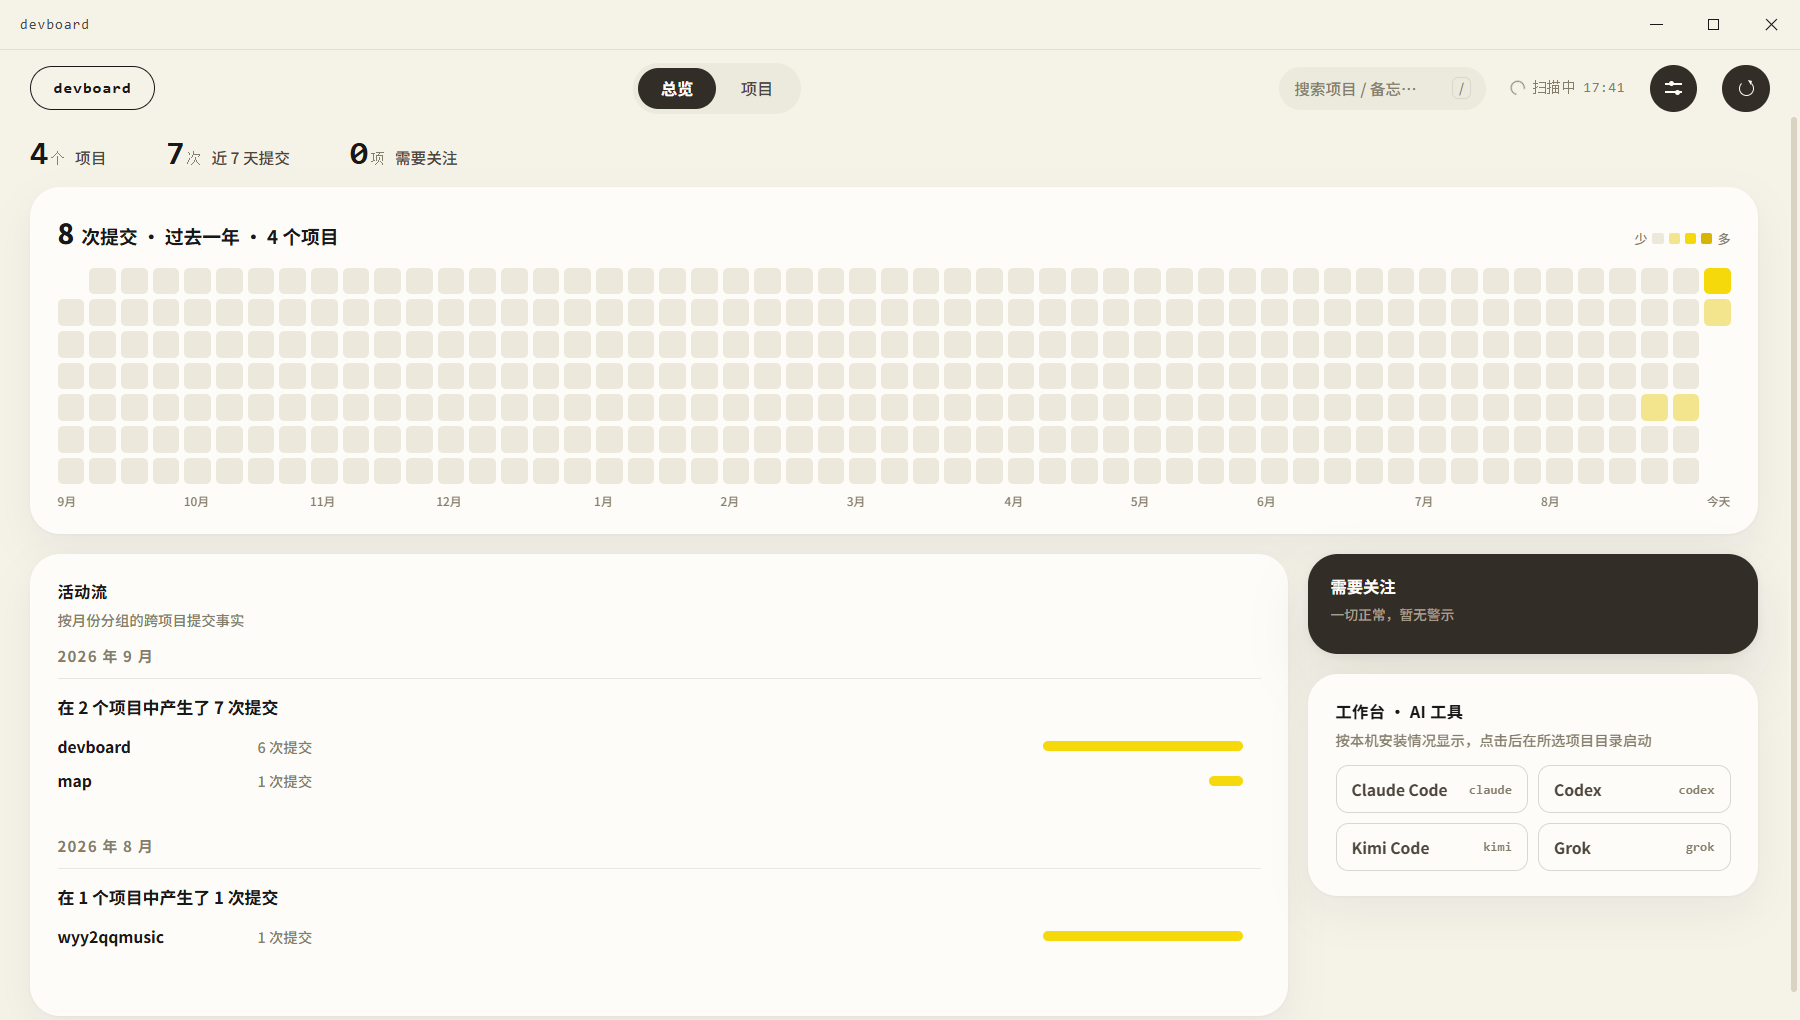
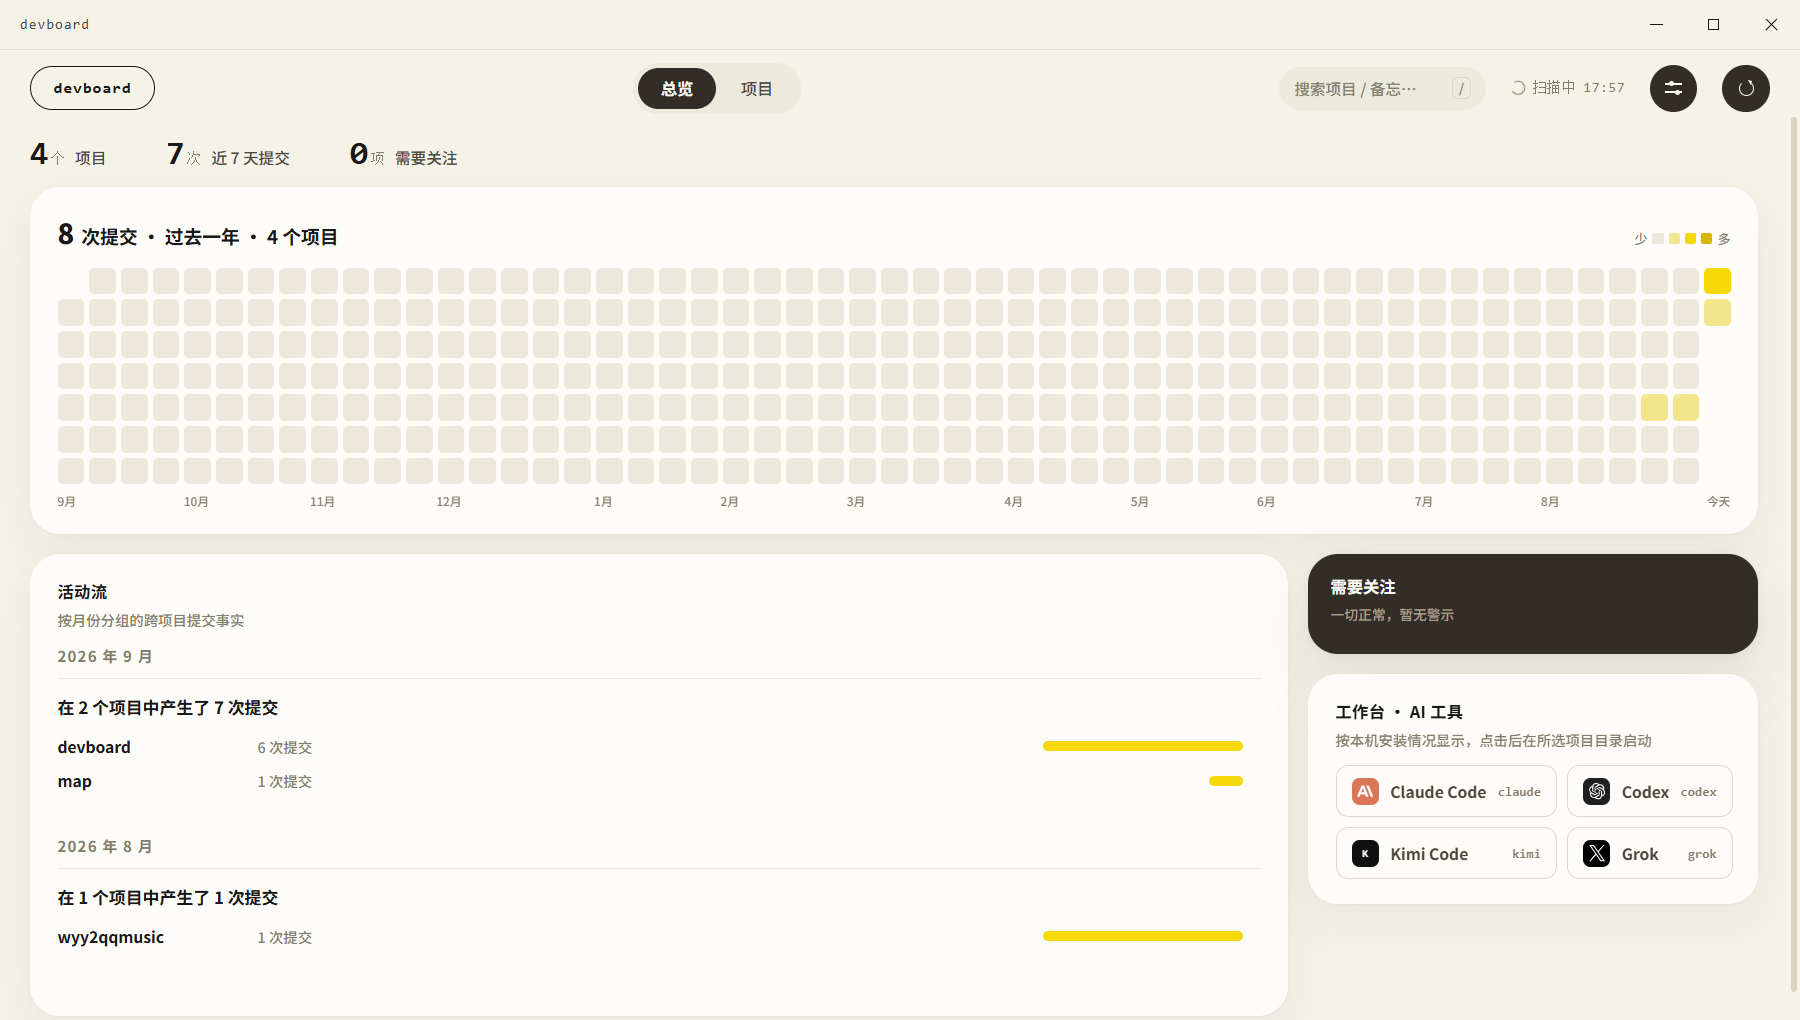
[feat] 热力图悬停气泡 + AI 工具品牌徽章 (#19 #21)
- #19 格子 title 改 data-tip + .heat-tip 深色气泡（--tile 底+下指三角，文案「M月D日 · N 次提交/无提交」，blank 格不触发，窗口缘钳制，scroll 隐藏），总览与详情面板共用
- #21 AI_TOOL_ICONS 注册表随 aitools:list 下发 {bg,svg}：Claude=anthropic 橙、Codex=openai 结形、Grok=X、Kimi=K 字标（simple-icons 未收录）；自定义工具可选图标，缺省终端标；22px 徽章工作台与详情面板共用渲染

Changed region(s): [[0.7467, 0.7598, 0.9644, 0.8814]]

diff --git a/src/renderer/app.js b/src/renderer/app.js
@@ -270,7 +270,8 @@
       var d = new Date(first + i * DAY_MS);
       var lvl = n === 0 ? 0 : n < 3 ? 1 : n < 7 ? 2 : 3;
       var cell = el('i', 'cell' + (lvl ? ' l' + lvl : ''));
-      cell.title = (d.getMonth() + 1) + '月' + d.getDate() + '日 · ' + (n ? n + ' 次提交' : '无提交');
+      // 悬停气泡（issue #19）：样式化深色气泡替代原生 title，空白占位格不写 tip
+      cell.dataset.tip = (d.getMonth() + 1) + '月' + d.getDate() + '日 · ' + (n ? n + ' 次提交' : '无提交');
       gridEl.appendChild(cell);
     });
     container.appendChild(gridEl);
@@ -418,6 +419,29 @@
     renderTools();
   }
 
+  /* ---------- 热力图悬停气泡（issue #19）：总览全局图与详情面板项目图共用 ---------- */
+  var heatTip = el('div', 'heat-tip');
+  document.body.appendChild(heatTip);
+  document.addEventListener('mouseover', function (e) {
+    var c = e.target && e.target.closest ? e.target.closest('.cell') : null;
+    if (!c || c.classList.contains('blank') || !c.dataset.tip || !c.closest('.gheat,.p-heat')) {
+      heatTip.style.opacity = 0;
+      return;
+    }
+    heatTip.textContent = c.dataset.tip;
+    heatTip.style.opacity = 1;
+    // 气泡 fixed 定位跟随格子；贴窗口左右缘时钳制内收（面板滚动经 scroll 捕获隐藏）
+    var r = c.getBoundingClientRect();
+    var cx = r.left + r.width / 2;
+    var half = heatTip.offsetWidth / 2 + 8;
+    if (cx + half > window.innerWidth) cx = window.innerWidth - half;
+    else if (cx < half) cx = half;
+    heatTip.style.left = cx + 'px';
+    heatTip.style.top = (r.top - 8) + 'px';
+  });
+  document.addEventListener('mouseleave', function () { heatTip.style.opacity = 0; }, true);
+  document.addEventListener('scroll', function () { heatTip.style.opacity = 0; }, true);
+
   /* ---------- 工作台 · AI 工具（issue #15） ---------- */
   function installedTools() {
     return (state.aiTools || []).filter(function (t) { return t.installed; });
@@ -435,10 +459,17 @@
     }).catch(function () { state.aiTools = []; });
   }
 
+  // 工具按钮：左侧 22px 品牌徽章 + 名称 + 命令（issue #21，工作台与详情面板共用）
   function toolButton(t, onPick) {
-    var b = el('button', 'tool-btn', t.label);
+    var b = el('button', 'tool-btn');
     b.type = 'button';
     b.title = '在终端启动 ' + t.cmd;
+    var logo = el('span', 'tool-logo');
+    var icon = t.logo || { bg: '#322e27', svg: '' };
+    logo.style.background = icon.bg;
+    logo.innerHTML = '<svg viewBox="0 0 24 24">' + icon.svg + '</svg>';
+    b.appendChild(logo);
+    b.appendChild(el('span', 'nm', t.label));
     b.appendChild(el('span', 'cmd', t.cmd));
     b.addEventListener('click', function (e) {
       e.stopPropagation();
@@ -1139,8 +1170,9 @@
     listEl.appendChild(row);
   }
 
-  // AI 工具自定义清单行（label + cmd，issue #15，存 config.aiTools）
-  function aiToolRow(label, cmd) {
+  // AI 工具自定义清单行（label + cmd + 图标选择，issue #15/#21，存 config.aiTools）
+  var AI_ICON_CHOICES = [['', '默认（终端）'], ['claude', 'Claude'], ['codex', 'Codex'], ['kimi', 'Kimi'], ['grok', 'Grok']];
+  function aiToolRow(label, cmd, logoKey) {
     var row = el('div', 'path-row');
     var l = el('input');
     l.type = 'text';
@@ -1152,11 +1184,19 @@
     c.value = cmd || '';
     c.placeholder = '命令（如 kimi）';
     c.spellcheck = false;
+    var sel = el('select');
+    AI_ICON_CHOICES.forEach(function (pair) {
+      var o = el('option', null, pair[1]);
+      o.value = pair[0];
+      sel.appendChild(o);
+    });
+    sel.value = logoKey || '';
     var del = el('button', 'del', '删除');
     del.type = 'button';
     del.addEventListener('click', function () { row.remove(); });
     row.appendChild(l);
     row.appendChild(c);
+    row.appendChild(sel);
     row.appendChild(del);
     aiToolsListEl.appendChild(row);
   }
@@ -1166,7 +1206,11 @@
     Array.prototype.forEach.call(aiToolsListEl.querySelectorAll('.path-row'), function (row) {
       var inputs = row.querySelectorAll('input');
       var cmd = inputs[1].value.trim();
-      if (cmd) out.push({ label: inputs[0].value.trim() || cmd, cmd: cmd });
+      if (!cmd) return;
+      var item = { label: inputs[0].value.trim() || cmd, cmd: cmd };
+      var logo = row.querySelector('select').value;
+      if (logo) item.logo = logo;
+      out.push(item);
     });
     return out;
   }
@@ -1273,7 +1317,7 @@
       extraList.innerHTML = '';
       (cfg.extraPaths || []).forEach(function (r) { pathRow(extraList, r); });
       aiToolsListEl.innerHTML = '';
-      (cfg.aiTools || []).forEach(function (t) { aiToolRow(t.label, t.cmd); });
+      (cfg.aiTools || []).forEach(function (t) { aiToolRow(t.label, t.cmd, t.logo); });
       document.getElementById('fBlacklist').value = (cfg.blacklist || []).join('\n');
       fToken.value = ''; // token 不下发；留空 = 不改动（issue #12）
       fUsername.value = cfg.githubUsername || '';

diff --git a/src/main/ipc.js b/src/main/ipc.js
@@ -77,6 +77,33 @@ function checkCommand(cmd) {
   });
 }
 
+// AI 工具品牌图标（issue #21）：内联单色 SVG 标识 + 品牌底色方块
+// 来源：claude=simple-icons anthropic / codex=simple-icons openai(v13，新版已下架) / grok=simple-icons x；
+// kimi 无官方条目（simple-icons 未收录 Moonshot），沿用 demos/demo-f-overview.html 的近似标（K 字）；
+// terminal 为自定义工具的通用兜底图标
+const AI_TOOL_ICONS = {
+  claude: {
+    bg: '#d97757',
+    svg: '<path d="M17.3041 3.541h-3.6718l6.696 16.918H24Zm-10.6082 0L0 20.459h3.7442l1.3693-3.5527h7.0052l1.3693 3.5528h3.7442L10.5363 3.5409Zm-.3712 10.2232 2.2914-5.9456 2.2914 5.9456Z" fill="#fff"/>',
+  },
+  codex: {
+    bg: '#202020',
+    svg: '<path d="M22.2819 9.8211a5.9847 5.9847 0 0 0-.5157-4.9108 6.0462 6.0462 0 0 0-6.5098-2.9A6.0651 6.0651 0 0 0 4.9807 4.1818a5.9847 5.9847 0 0 0-3.9977 2.9 6.0462 6.0462 0 0 0 .7427 7.0966 5.98 5.98 0 0 0 .511 4.9107 6.051 6.051 0 0 0 6.5146 2.9001A5.9847 5.9847 0 0 0 13.2599 24a6.0557 6.0557 0 0 0 5.7718-4.2058 5.9894 5.9894 0 0 0 3.9977-2.9001 6.0557 6.0557 0 0 0-.7475-7.0729zm-9.022 12.6081a4.4755 4.4755 0 0 1-2.8764-1.0408l.1419-.0804 4.7783-2.7582a.7948.7948 0 0 0 .3927-.6813v-6.7369l2.02 1.1686a.071.071 0 0 1 .038.052v5.5826a4.504 4.504 0 0 1-4.4945 4.4944zm-9.6607-4.1254a4.4708 4.4708 0 0 1-.5346-3.0137l.142.0852 4.783 2.7582a.7712.7712 0 0 0 .7806 0l5.8428-3.3685v2.3324a.0804.0804 0 0 1-.0332.0615L9.74 19.9502a4.4992 4.4992 0 0 1-6.1408-1.6464zM2.3408 7.8956a4.485 4.485 0 0 1 2.3655-1.9728V11.6a.7664.7664 0 0 0 .3879.6765l5.8144 3.3543-2.0201 1.1685a.0757.0757 0 0 1-.071 0l-4.8303-2.7865A4.504 4.504 0 0 1 2.3408 7.872zm16.5963 3.8558L13.1038 8.364 15.1192 7.2a.0757.0757 0 0 1 .071 0l4.8303 2.7913a4.4944 4.4944 0 0 1-.6765 8.1042v-5.6772a.79.79 0 0 0-.407-.667zm2.0107-3.0231l-.142-.0852-4.7735-2.7818a.7759.7759 0 0 0-.7854 0L9.409 9.2297V6.8974a.0662.0662 0 0 1 .0284-.0615l4.8303-2.7866a4.4992 4.4992 0 0 1 6.6802 4.66zM8.3065 12.863l-2.02-1.1638a.0804.0804 0 0 1-.038-.0567V6.0742a4.4992 4.4992 0 0 1 7.3757-3.4537l-.142.0805L8.704 5.459a.7948.7948 0 0 0-.3927.6813zm1.0976-2.3654l2.602-1.4998 2.6069 1.4998v2.9994l-2.5974 1.4997-2.6067-1.4997Z" fill="#fff"/>',
+  },
+  kimi: {
+    bg: '#101010',
+    svg: '<text x="12" y="17" text-anchor="middle" font-size="13" font-weight="700" fill="#fff" font-family="sans-serif">K</text>',
+  },
+  grok: {
+    bg: '#000000',
+    svg: '<path d="M14.234 10.162 22.977 0h-2.072l-7.591 8.824L7.251 0H.258l9.168 13.343L.258 24H2.33l8.016-9.318L16.749 24h6.993zm-2.837 3.299-.929-1.329L3.076 1.56h3.182l5.965 8.532.929 1.329 7.754 11.09h-3.182z" fill="#fff"/>',
+  },
+  terminal: {
+    bg: '#322e27',
+    svg: '<path d="M5.5 7l4.5 4-4.5 4M11.5 15H18" stroke="#f5d90a" stroke-width="2" fill="none" stroke-linecap="round" stroke-linejoin="round"/>',
+  },
+};
+
 // 默认 AI 工具清单；设置页可增删自定义项（config.aiTools）与之合并（issue #15）
 const DEFAULT_AI_TOOLS = [
   { id: 'claude', label: 'Claude Code', cmd: 'claude' },
@@ -227,14 +254,29 @@ function registerIpc({ store, getWindow, applySettings, getHotkeyError }) {
   });
 
   // AI 工具清单：默认四项 + config.aiTools 自定义项，逐项 where 探测安装情况（issue #15）
+  // 每项随发品牌 logo（issue #21）；自定义项的 logo 键名映射到已有图标，缺省通用终端图标
   ipcMain.handle('aitools:list', async (_e, _config) => {
     const cfg = store.getConfig();
     const custom = (cfg.aiTools || [])
-      .map((t, i) => ({ id: 'custom-' + i, label: String(t.label || t.cmd || ''), cmd: String(t.cmd || '').trim() }))
+      .map((t, i) => ({
+        id: 'custom-' + i,
+        label: String(t.label || t.cmd || ''),
+        cmd: String(t.cmd || '').trim(),
+        logoKey: typeof t.logo === 'string' ? t.logo : '',
+      }))
       .filter((t) => t.cmd);
     const tools = DEFAULT_AI_TOOLS.concat(custom);
     return Promise.all(
-      tools.map(async (t) => Object.assign({}, t, { installed: (await checkCommand(t.cmd)).ok }))
+      tools.map(async (t) => {
+        const icon = AI_TOOL_ICONS[t.logoKey] || AI_TOOL_ICONS[t.id] || AI_TOOL_ICONS.terminal;
+        return {
+          id: t.id,
+          label: t.label,
+          cmd: t.cmd,
+          installed: (await checkCommand(t.cmd)).ok,
+          logo: icon,
+        };
+      })
     );
   });
 
@@ -369,4 +411,4 @@ function registerIpc({ store, getWindow, applySettings, getHotkeyError }) {
   return { buildBoard };
 }
 
-module.exports = { registerIpc };
+module.exports = { registerIpc, AI_TOOL_ICONS };

diff --git a/src/renderer/styles.css b/src/renderer/styles.css
@@ -268,6 +268,13 @@ main{flex:1;min-height:0;overflow-y:auto;padding:14px 24px 24px}
   margin-left:auto;font-size:10.5px;color:var(--ink-3);
   font-family:ui-monospace,Consolas,monospace;
 }
+/* 品牌 logo 徽章（issue #21）：22px、圆角 ~25%、品牌底色 + 白色标识 */
+.tool-logo{
+  width:22px;height:22px;flex:none;border-radius:6px;
+  display:flex;align-items:center;justify-content:center;overflow:hidden;
+}
+.tool-logo svg{width:13px;height:13px;display:block}
+.tool-btn .nm{white-space:nowrap;overflow:hidden;text-overflow:ellipsis}
 .tools-empty{font-size:12px;color:var(--ink-3)}
 .tool-pick .tp-in{
   display:flex;align-items:center;gap:6px;background:var(--well);
@@ -585,6 +592,11 @@ main{flex:1;min-height:0;overflow-y:auto;padding:14px 24px 24px}
   padding:7px 12px;outline:none;
 }
 .path-row input:focus{border-color:var(--ink-3)}
+.path-row select{
+  flex:none;border:1px solid var(--line);border-radius:var(--r-chip);
+  background:var(--bg);color:var(--ink);font:inherit;font-size:12px;
+  padding:0 8px;outline:none;
+}
 .path-row input.bad-input{border-color:#c0392b}
 .path-row .browse,.path-row .del{
   flex:none;border:0;border-radius:var(--r-chip);cursor:pointer;
@@ -654,6 +666,18 @@ main{flex:1;min-height:0;overflow-y:auto;padding:14px 24px 24px}
 .sort-drop{left:auto;right:0;min-width:160px}
 /* 工具项目选择器：复用搜索补全的 .drop 组件（issue #15），锚定工具卡右上角 */
 .tool-pick{left:auto;right:8px;top:8px;min-width:280px}
+
+/* 热力图悬停气泡（issue #19）：深色底 + 向下小三角，替代原生 title */
+.heat-tip{
+  position:fixed;z-index:100;background:var(--tile);color:var(--tile-ink);
+  border-radius:8px;padding:5px 11px;font-size:11.5px;white-space:nowrap;
+  pointer-events:none;opacity:0;transition:opacity .12s ease;
+  transform:translate(-50%,-100%);
+}
+.heat-tip::after{
+  content:"";position:absolute;left:50%;bottom:-5px;transform:translateX(-50%);
+  border:5px solid transparent;border-top-color:var(--tile);border-bottom:0;
+}
 
 /* 分支下拉（issue #4，详情面板近况信号区内） */
 .bdrop{position:relative;display:inline-flex;align-items:center;gap:6px}

diff --git a/scripts/screenshot.js b/scripts/screenshot.js
@@ -49,12 +49,13 @@ app.whenReady().then(() => {
     }));
     ipcMain.handle('prefs:set', () => ({}));
     ipcMain.handle('snooze:set', () => true);
-    // AI 工具（issue #15 mock）：claude / kimi 已安装，codex / grok 未安装
+    // AI 工具（issue #15 mock）：claude / kimi 已安装，codex / grok 未安装；logo 复用真实注册表（issue #21）
+    const { AI_TOOL_ICONS } = require('../src/main/ipc');
     ipcMain.handle('aitools:list', () => [
-      { id: 'claude', label: 'Claude Code', cmd: 'claude', installed: true },
-      { id: 'codex', label: 'Codex', cmd: 'codex', installed: false },
-      { id: 'kimi', label: 'Kimi Code', cmd: 'kimi', installed: true },
-      { id: 'grok', label: 'Grok', cmd: 'grok', installed: false },
+      { id: 'claude', label: 'Claude Code', cmd: 'claude', installed: true, logo: AI_TOOL_ICONS.claude },
+      { id: 'codex', label: 'Codex', cmd: 'codex', installed: false, logo: AI_TOOL_ICONS.codex },
+      { id: 'kimi', label: 'Kimi Code', cmd: 'kimi', installed: true, logo: AI_TOOL_ICONS.kimi },
+      { id: 'grok', label: 'Grok', cmd: 'grok', installed: false, logo: AI_TOOL_ICONS.grok },
     ]);
     ipcMain.handle('aitools:open', () => true);
     // 详情面板深区数据（issue #17 mock）：README 摘要 + AI 会话痕迹明细
